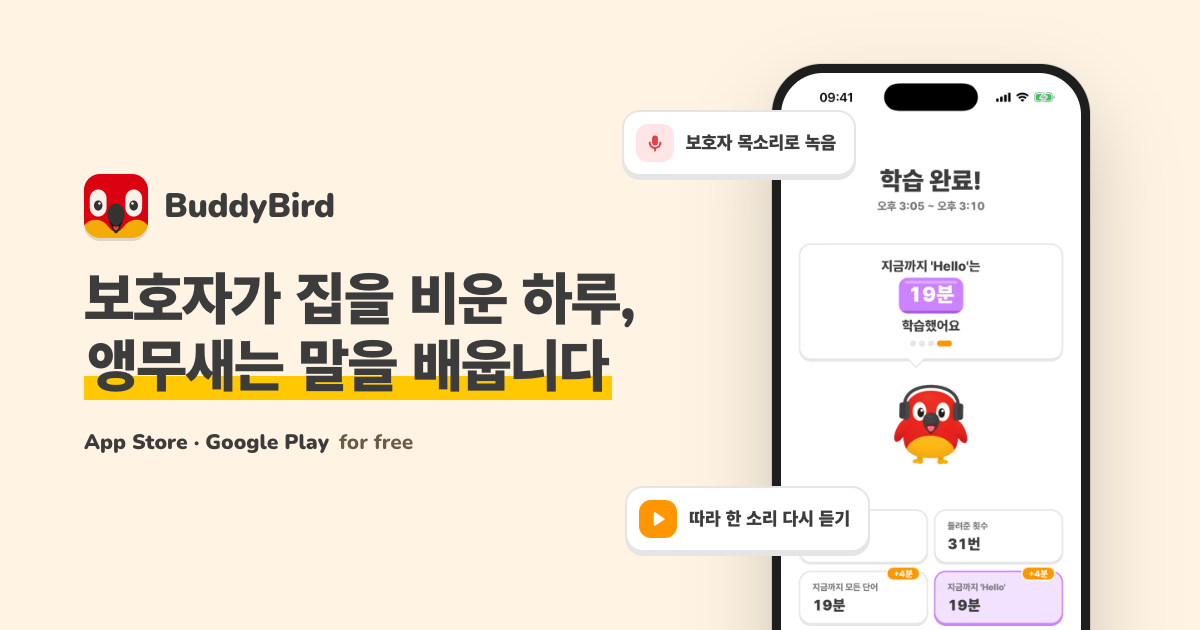
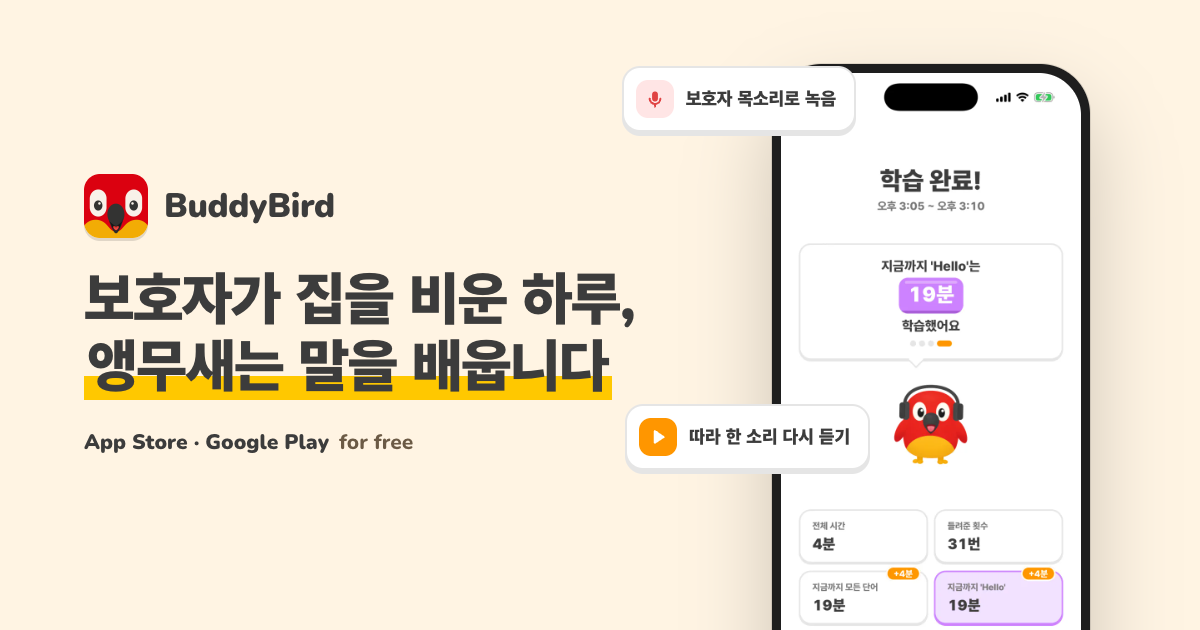
style(seo): OG 카드 배지를 휴대폰 위쪽으로 옮긴다

Changed region(s): [[0.4933, 0.6333, 0.74, 0.9048], [0.4933, 0.0905, 0.7092, 0.3016]]

diff --git a/tools/og-card.html b/tools/og-card.html
@@ -46,9 +46,9 @@
           font-weight: 900; font-size: 18px; }
   .note .ic { width: 38px; height: 38px; border-radius: 12px; display: grid; place-items: center; }
   .note svg { width: 20px; height: 20px; }
-  .n1 { top: 110px; right: 344px; }
+  .n1 { top: 66px; right: 344px; }
   .n1 .ic { background: #FFE5E5; color: #E04343; }
-  .n2 { top: 486px; right: 330px; }
+  .n2 { top: 404px; right: 330px; }
   .n2 .ic { background: #FF9600; color: #fff; }
 </style>
 </head>
